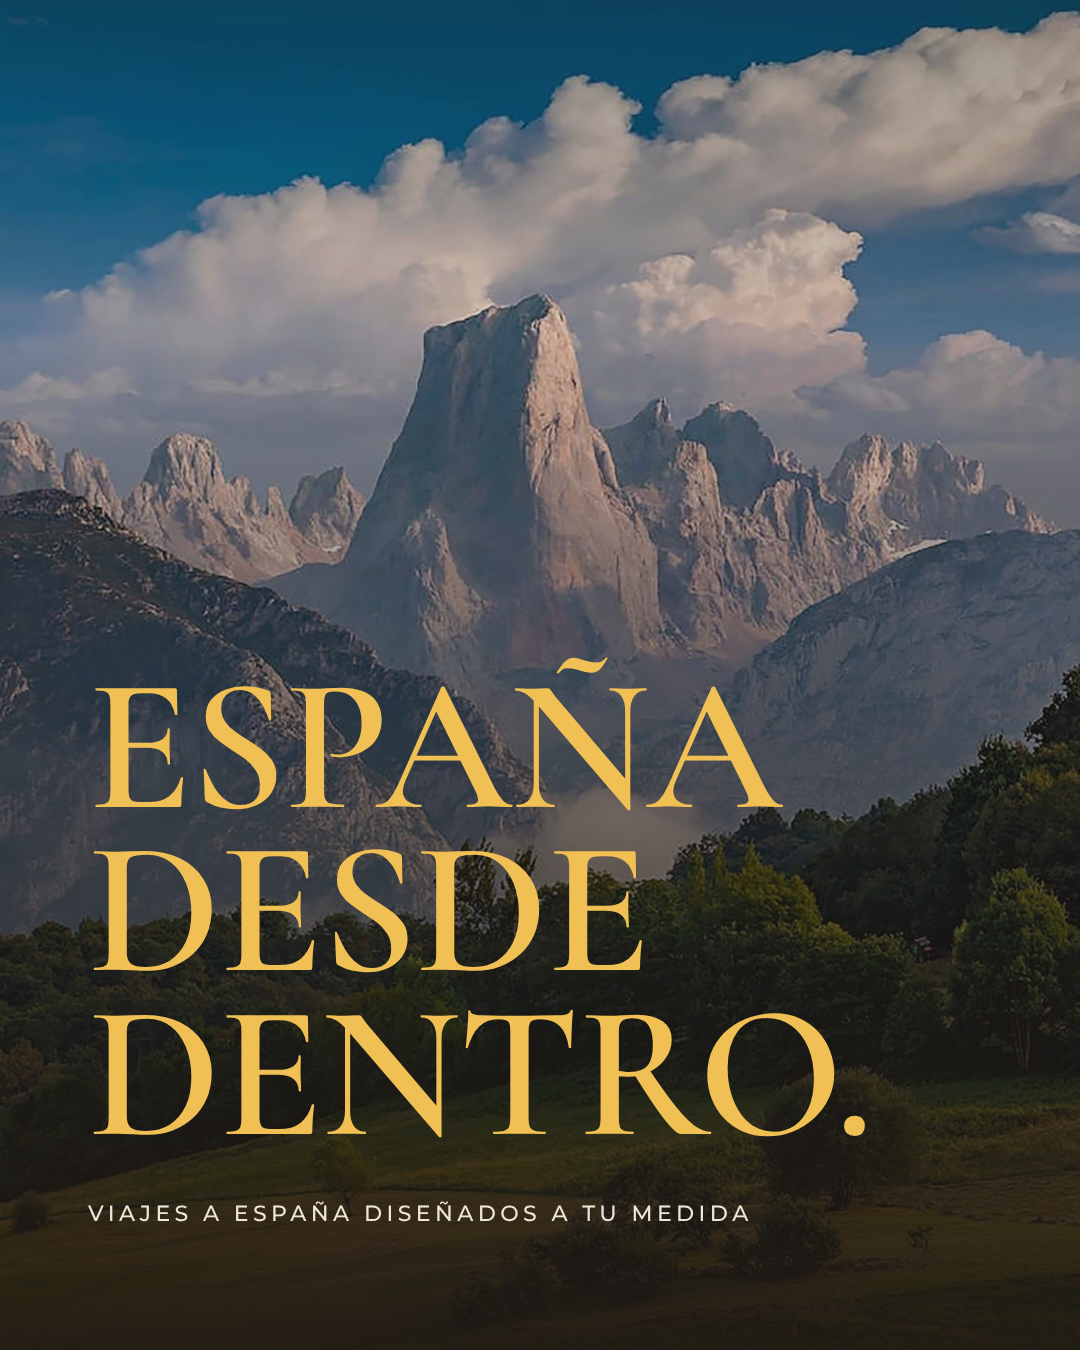
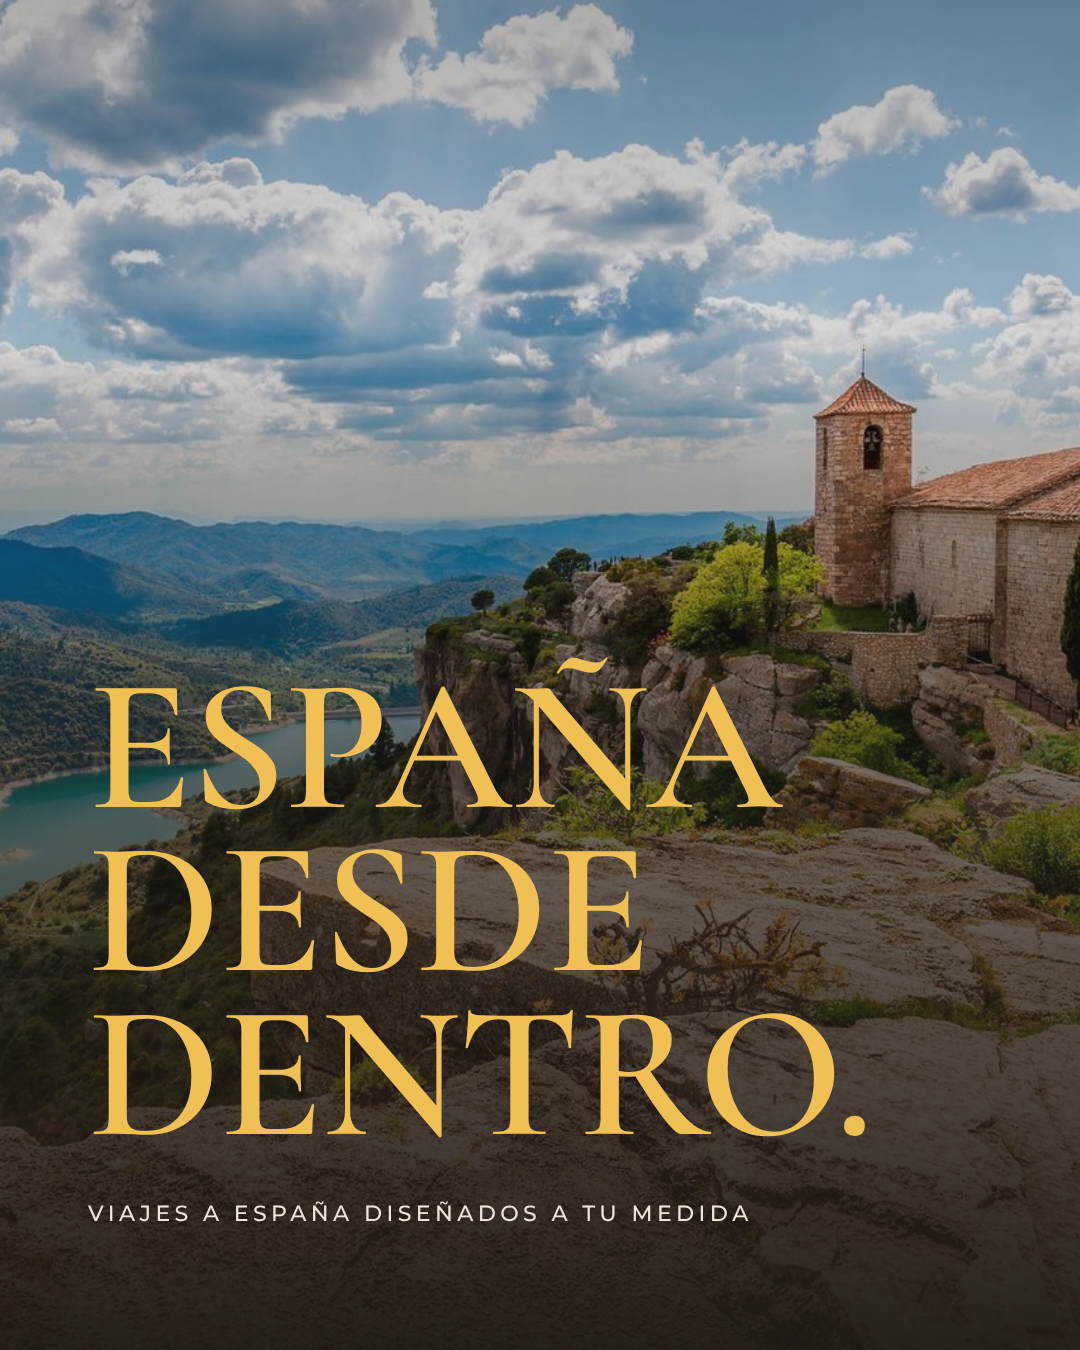
Redes: piezas actualizadas con Rutas de autor (5 rutas), fotos y copy nuevos de la web
Claude-Session: https://claude.ai/code/session_01VNNU832suxERsaZH8fFMyk

diff --git a/contenido/COPYS.md b/contenido/COPYS.md
@@ -46,18 +46,20 @@ Viajar con más sentido y menos piloto automático. Ese es el estándar con el q
 
 ---
 
-## Post 4 · Carrusel (5) · `post-04-tres-rutas/`
-Tres formas de empezar a conocer España desde dentro:
+## Post 4 · Carrusel (7) · `post-04-rutas-de-autor/`
+Cinco maneras de comenzar a conocer la otra España:
 
-01 · España entre viñedos: vino, mesa y paisaje, con tiempo.
-02 · Sabores del norte: costa, pueblos y cocina local.
-03 · España medieval: historia y patrimonio con contexto.
+01 · España Castellana: castillos, fogones y silencio.
+02 · España del Vino: Rioja Alavesa y Ribera del Duero.
+03 · Catalunya Insólita: una Catalunya menos evidente y más personal.
+04 · España Profunda: Extremadura, dehesa, imperios y silencio.
+05 · España Atlántica: la España verde, marinera y celta.
 
-Ninguna es un paquete cerrado. Son puntos de partida que adaptamos a quién viaja y cómo quiere vivirlo.
+Ninguna es un paquete cerrado. Son Rutas de autor que adaptamos a quién viaja y cómo quiere vivirlo.
 
 ¿Cuál va contigo? Escríbenos y empezamos a diseñarla.
 
-#LN415Travel #RutasPorEspaña #Asturias #VinoEspañol #ViajesAMedida
+#LN415Travel #RutasDeAutor #ViajarAEspaña #ViajesAMedida #España
 
 ---
 
@@ -68,7 +70,7 @@ Queremos construir profundidad donde realmente podemos aportar valor. Por eso em
 
 Especialidad: España. Capacidad: mundo.
 
-#LN415Travel #España #ViajarAEspaña #CaminitoDelRey
+#LN415Travel #España #ViajarAEspaña #Castilla
 
 ---
 
